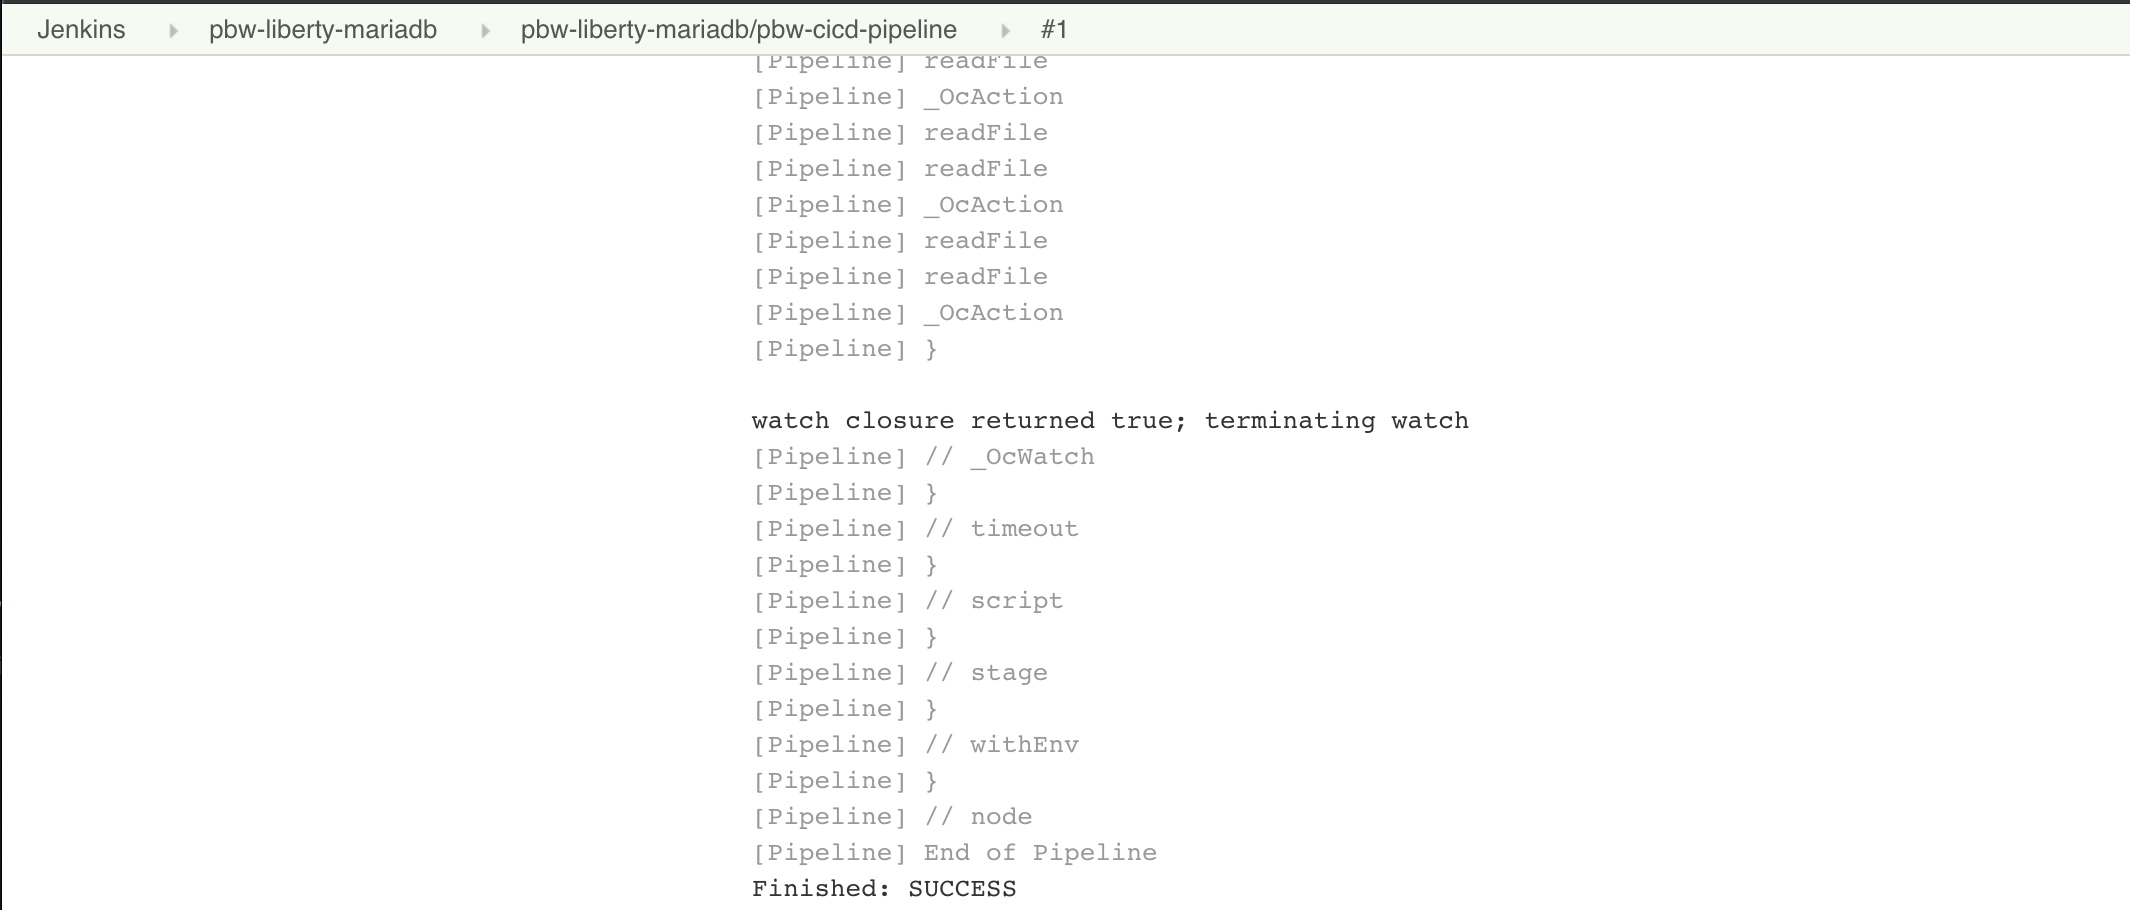
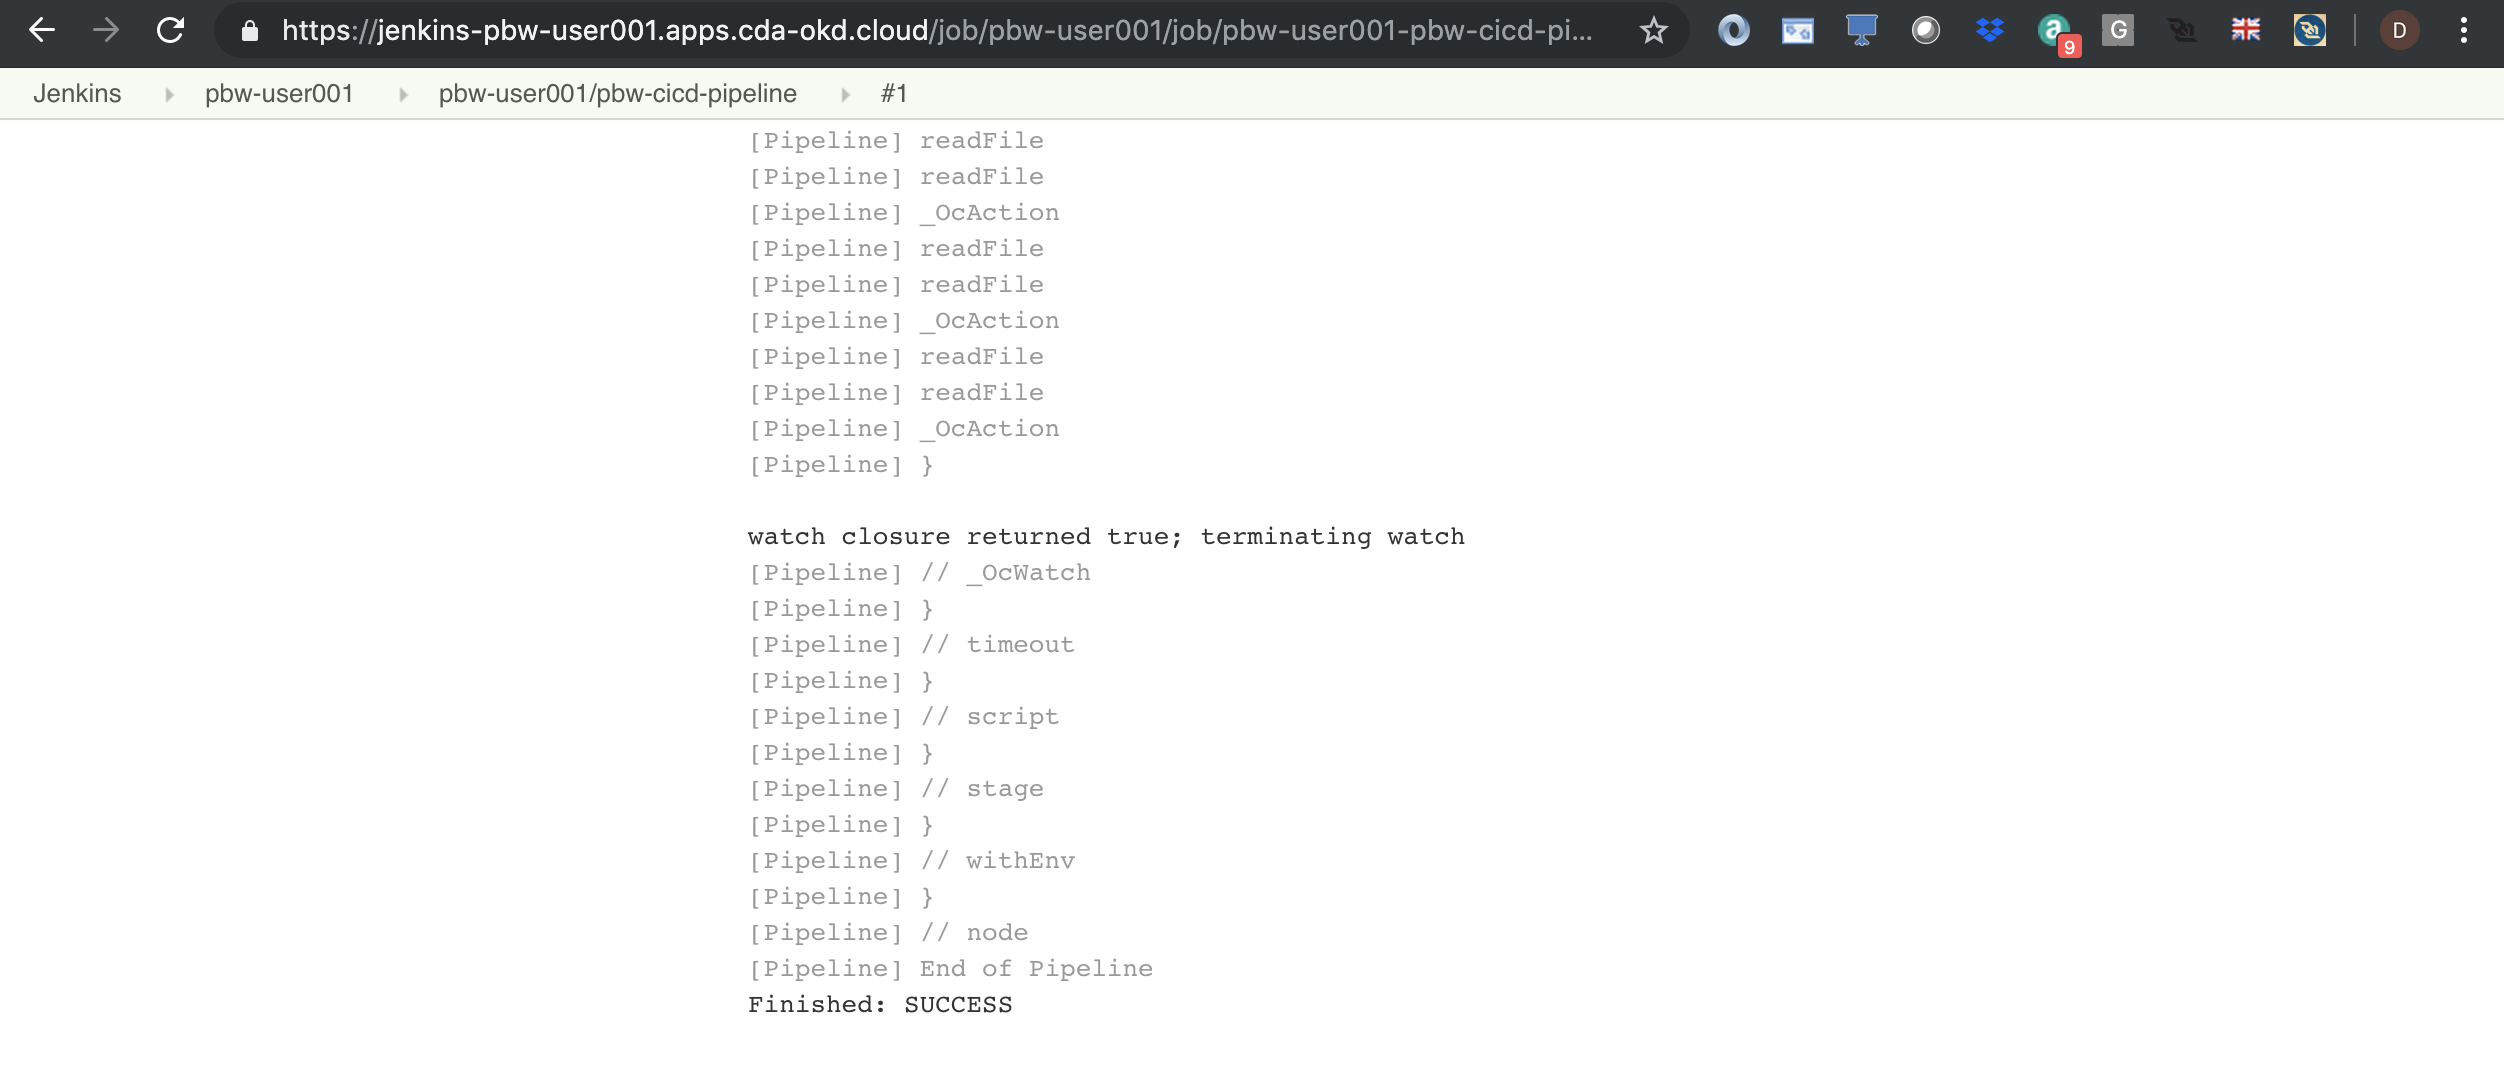
Minor editing and replaced IKS  screenshot

diff --git a/README.md b/README.md
@@ -8,6 +8,12 @@
 
 In this lab you will  be connecting your Git repository with the Plants by WebSphere app to a Continuous Integration/Continuous Deployment pipeline built with Jenkins that will deploy to an OpenShift cluster.
 
+## Setup
+
+If you haven't already:
+
+Complete the lab exercise *S2I and Template Lab for the App Modernization Dojo on OpenShift in a shared environment* by following the instructions [here](https://github.com/IBMAppModernization/app-modernization-openshift-templates-lab-shared)
+
 ### Step 1: Clone the Github repo that contains the code for the Plants by WebSphere app
 
 1.1  Login in [your Github account](https://github.com)
@@ -49,11 +55,6 @@ In this lab you will  be connecting your Git repository with the Plants by WebSp
 
    ![Running](images/ss2.png)
 
-2.7 From a terminal run the following command to give Jenkins Service Account push access to the internal container registry
-
-   ```bash
-   oc policy add-role-to-user system:image-builder system:serviceaccount:pbw-liberty-mariadb:jenkins
-   ```
 ### Step 3: Create Pipeline from a template
 
 3.1  From the terminal run the following command to install the Plants by WebSphere pipeline template (note: you need to be in the top level folder of the cloned  Plants by WebSphere GitHub repo i.e. **app-modernization-plants-by-websphere-jee6**
